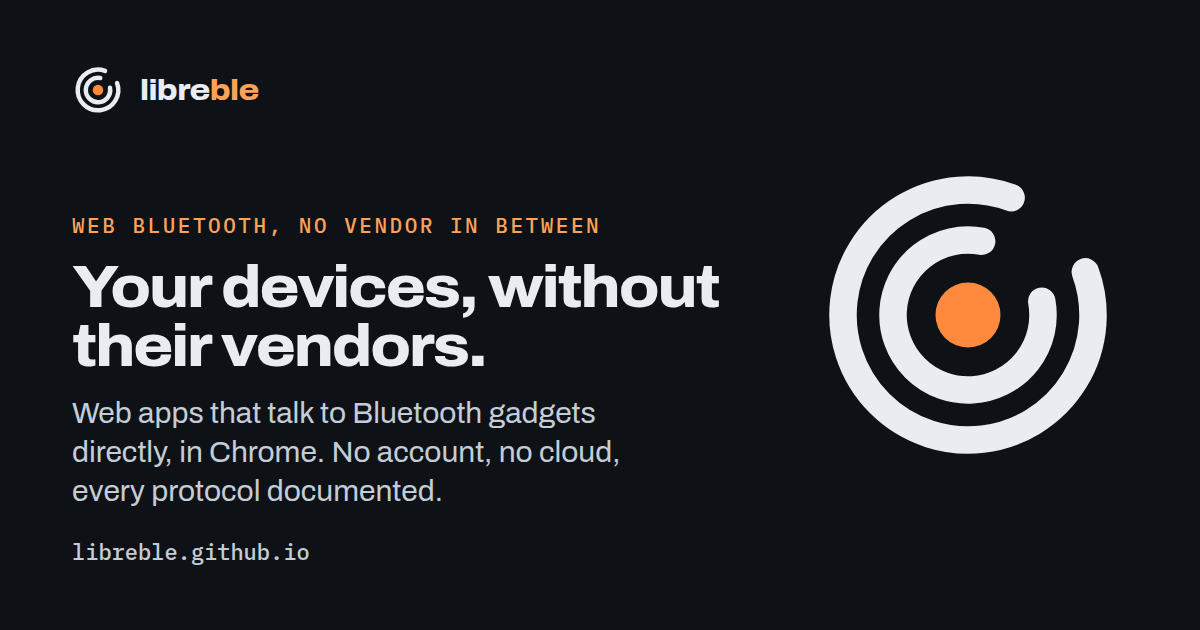
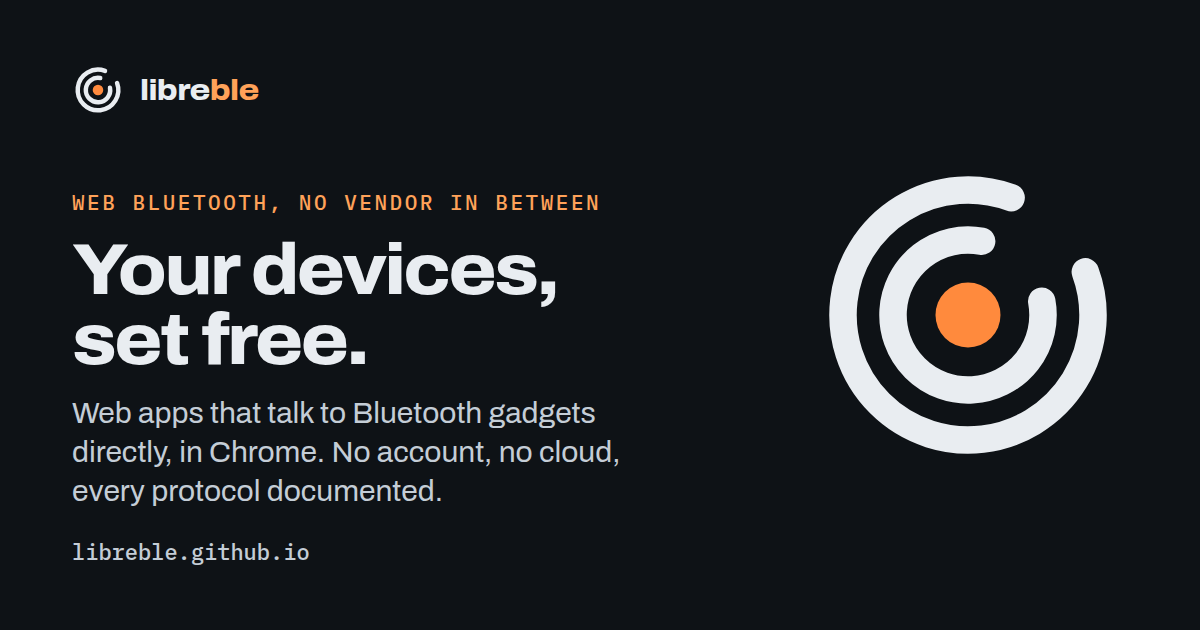
Tagline: Your devices, set free; lede opens on the pointless-radio jab
Shorter headline (two lines instead of three in the hero), carried through the
page title, OG/Twitter tags and the social card. The lede now leads with why
most of these devices have Bluetooth at all — the account, the data, the shop.

Changed region(s): [[0.0617, 0.3016, 0.6167, 0.6032]]

diff --git a/index.html b/index.html
@@ -3,7 +3,7 @@
 <head>
   <meta charset="utf-8">
   <meta name="viewport" content="width=device-width, initial-scale=1">
-  <title>libreble — your devices, without their vendors</title>
+  <title>libreble — your Bluetooth devices, set free</title>
   <meta name="description" content="Web apps that talk to your Bluetooth devices directly over Web Bluetooth in Chrome — no vendor account, no app, no cloud — with every protocol documented.">
   <link rel="canonical" href="https://libreble.github.io/">
   <meta name="color-scheme" content="light dark">
@@ -14,15 +14,15 @@
 
   <meta property="og:type" content="website">
   <meta property="og:site_name" content="libreble">
-  <meta property="og:title" content="libreble — your devices, without their vendors">
+  <meta property="og:title" content="libreble — your Bluetooth devices, set free">
   <meta property="og:description" content="Web apps that talk to Bluetooth gadgets directly, in Chrome. No vendor account, no vendor app, no cloud — and every protocol documented.">
   <meta property="og:url" content="https://libreble.github.io/">
   <meta property="og:image" content="https://libreble.github.io/og/libreble.png">
   <meta property="og:image:width" content="1200">
   <meta property="og:image:height" content="630">
-  <meta property="og:image:alt" content="The libreble beacon mark next to the words: Your devices, without their vendors.">
+  <meta property="og:image:alt" content="The libreble beacon mark next to the words: Your devices, set free.">
   <meta name="twitter:card" content="summary_large_image">
-  <meta name="twitter:title" content="libreble — your devices, without their vendors">
+  <meta name="twitter:title" content="libreble — your Bluetooth devices, set free">
   <meta name="twitter:description" content="Web apps that talk to Bluetooth gadgets directly, in Chrome. No vendor account, no vendor app, no cloud — and every protocol documented.">
   <meta name="twitter:image" content="https://libreble.github.io/og/libreble.png">
 
@@ -443,6 +443,10 @@
       color: var(--led);
       line-height: 1.15;
     }
+    .ask { margin-top: 36px; max-width: 40em; border-top: 2px solid var(--ink); padding-top: 14px; }
+    .ask h3 { font-weight: 700; font-stretch: 106%; font-size: 1.125rem; letter-spacing: -0.01em; margin-bottom: 8px; }
+    .ask p { color: var(--ink-2); font-size: 0.9375rem; line-height: 1.5; text-wrap: pretty; }
+    .ask .links { margin-top: 14px; }
     .steps li strong { display: block; color: var(--ink); font-weight: 700; font-stretch: 106%; font-size: 1.0625rem; margin-bottom: 2px; }
     code {
       font-family: "IBM Plex Mono", ui-monospace, SFMono-Regular, Menlo, Consolas, monospace;
@@ -491,12 +495,14 @@
       <span class="wordmark">libre<span class="ble">ble</span></span>
     </div>
     <div>
-      <h1>Your devices, without their vendors.</h1>
+      <h1>Your devices, set free.</h1>
       <p class="lede">
-        Bluetooth gadgets ship with an app that wants an account, a cloud, and your data.
-        libreble is a collection of web apps that talk to those devices
-        <strong>directly, in your browser</strong> — no account, no app store, no server.
-        Each one also <strong>documents the device's protocol</strong> so anyone can build on it.
+        Nobody asked for a Bluetooth toothbrush. Most of these gadgets got a radio so an app
+        could sit between you and the thing you bought — and the app is there for the account,
+        your data, and the in-app accessory shop. libreble is a collection of web apps that talk
+        to the devices <strong>directly, in your browser</strong> — no account, no app store,
+        no server. Each one also <strong>documents the device's protocol</strong> so anyone can
+        build on it.
       </p>
     </div>
 
@@ -644,7 +650,8 @@
   <section id="contribute" class="row">
     <div class="rail">
       <h2>Liberate a device</h2>
-      <p class="sub">Have a gadget held hostage by its app? Each device is its own repo with the same shape.</p>
+      <p class="sub">Have a gadget held hostage by its app? Anyone can liberate one — this is the
+        shape, and how to get it listed here.</p>
     </div>
     <div>
       <ol class="steps">
@@ -654,12 +661,24 @@
         <li><span><strong>Build the PWA</strong> A pure protocol layer with no UI dependencies, a
           real Web Bluetooth transport plus a mock so the UI works without hardware, local storage
           with JSON export, a manifest and a service worker.</span></li>
-        <li><span><strong>Deploy to GitHub Pages</strong> Under
-          <code>libreble.github.io/&lt;repo&gt;/</code>, then add a card above.</span></li>
+        <li><span><strong>Publish it, then tell us</strong> Deploy it anywhere — your own GitHub
+          Pages is fine. <a href="https://github.com/libreble/libreble.github.io/issues/new?template=liberated-device.yml">Open an issue</a>
+          with the app, the source and the protocol write-up, and it gets a card above.</span></li>
       </ol>
       <p class="note"><a href="https://github.com/libreble/bikefit">Bikefit</a> is the reference
         layout to copy. Everything lives at
         <a href="https://github.com/libreble">github.com/libreble</a>.</p>
+
+      <div class="ask">
+        <h3>Not a builder? Ask for a device.</h3>
+        <p>Say which make and model, and what its app holds hostage. Requests are a wish list,
+          not a queue — but if you own the device and can help capture what it says on the air,
+          things move a lot faster.</p>
+        <p class="links">
+          <a class="primary" href="https://github.com/libreble/libreble.github.io/issues/new?template=device-request.yml">Request a device</a>
+          <a href="https://github.com/libreble/libreble.github.io/labels/device%20request">Open requests</a>
+        </p>
+      </div>
     </div>
   </section>
 

diff --git a/og/card.html b/og/card.html
@@ -76,7 +76,7 @@
 
   <div class="text">
     <div class="kicker mono" id="kicker">Web Bluetooth, no vendor in between</div>
-    <h1 class="title" id="title">Your devices, without their vendors.</h1>
+    <h1 class="title" id="title">Your devices, set free.</h1>
     <p class="subtitle" id="subtitle">Web apps that talk to Bluetooth gadgets directly, in Chrome. No account, no cloud, every protocol documented.</p>
     <div class="url mono" id="url"><b>libreble.github.io</b></div>
   </div>
